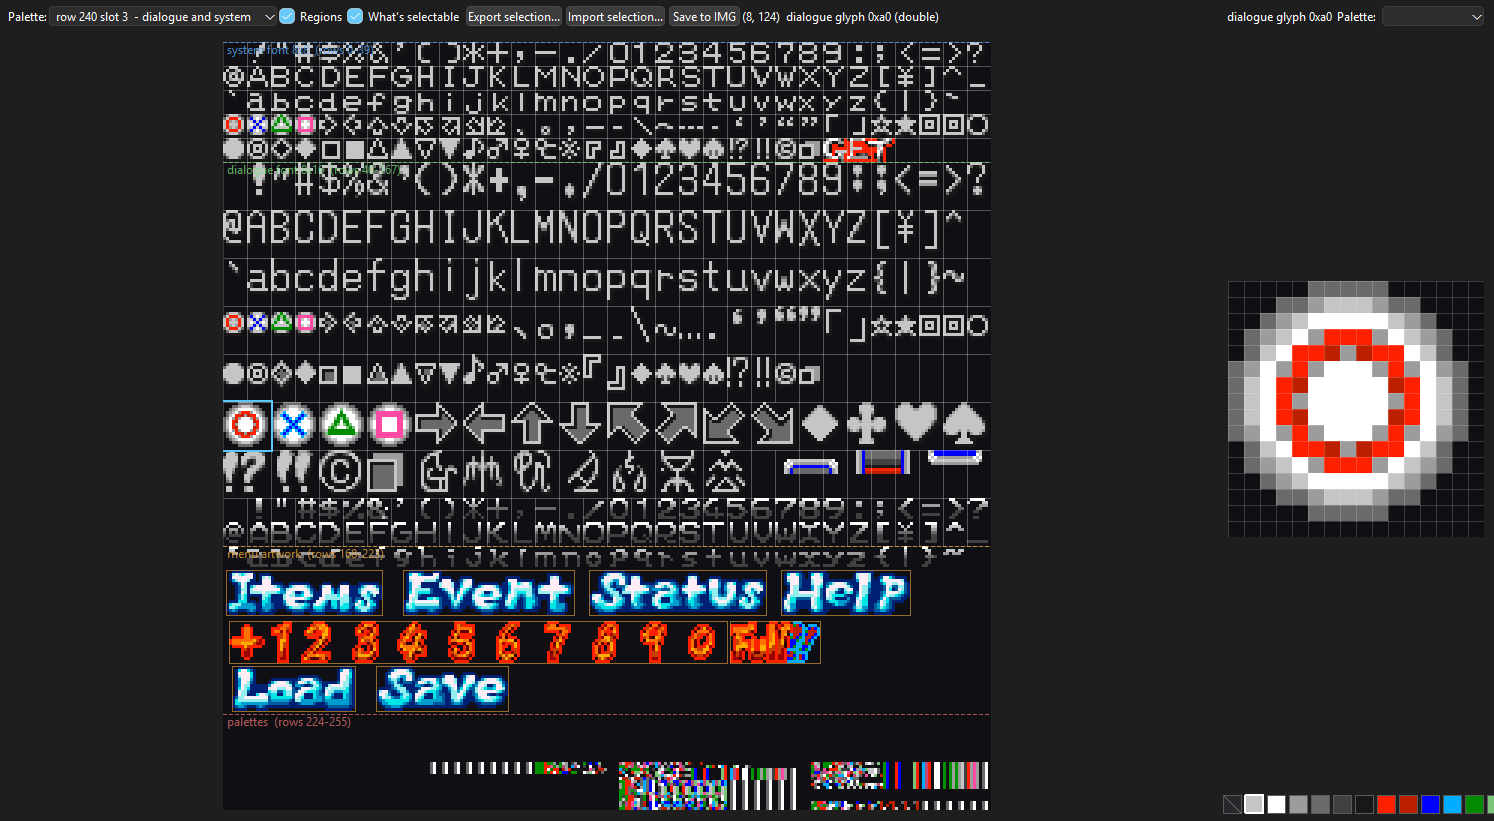
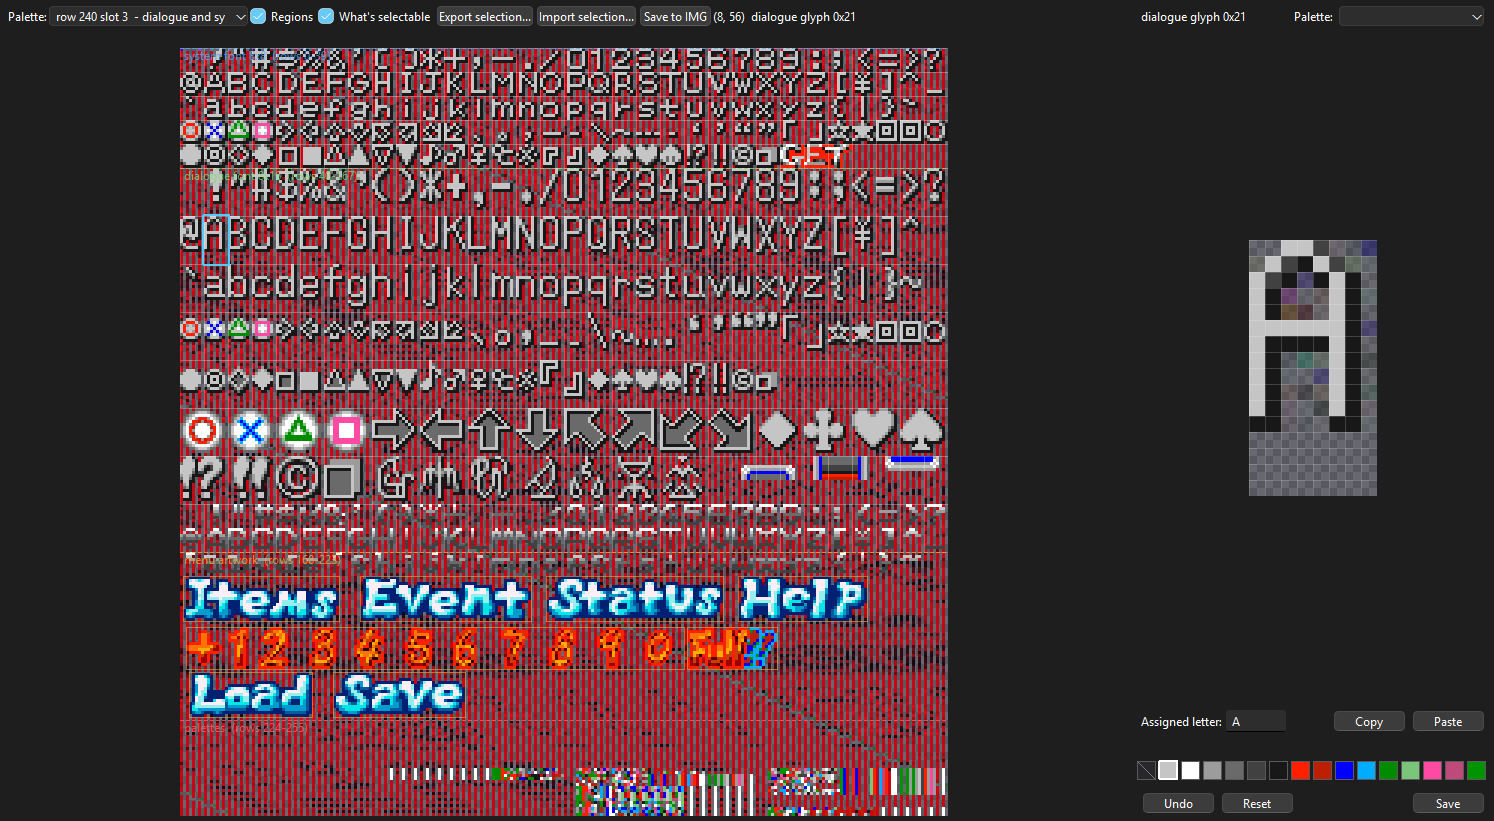
translation tab

diff --git a/gui/txtd/font_page_view.py b/gui/txtd/font_page_view.py
@@ -112,20 +112,17 @@ SPRITE_CLUTS = {
     "health digits and +": (241, 3),
 }
 
-# What index 0 is drawn as. The page's "draw nothing" has to look like
-# nothing rather than like a colour, or an edited glyph cannot be told
-# from one drawn in black - so it is a checker rather than a fill. Dark,
-# because the game draws this text over dark scenery and a pale backdrop
-# loses the highlights.
-BACKDROP = (16, 16, 20, 255)
-BACKDROP_ALT = (26, 26, 32, 255)
-CHECKER = 4                    # squares, in page texels
-
-
-def _backdrop(x, y):
-    """The checker colour behind a transparent texel."""
-    return (BACKDROP if ((x // CHECKER) + (y // CHECKER)) % 2 == 0
-            else BACKDROP_ALT)
+# The ground a transparent texel is seen against. Left to the canvas to
+# paint rather than written into the image: drawn into the pixels it
+# would line up with them and scale with the zoom, which makes it look
+# like part of the glyph instead of like nothing.
+#
+# Darker than the canvas default, because the font is nearly all light
+# pixels and a pale ground swallows them - but nowhere near black, or an
+# erased texel cannot be told from one drawn in the page's darkest
+# colour, which is the mistake worth avoiding here.
+CHECKER_LIGHT = QColor(104, 104, 112)
+CHECKER_DARK = QColor(88, 88, 96)
 
 # The two fonts. Every dialogue capture - the NPC box, Zippo and Tomba's,
 # the controls menu, the intro text - matches this one to within a mean
@@ -176,6 +173,8 @@ class FontPageView(QWidget):
         self.selection = None     # ("glyph", code) | ("sprite", name)
 
         self.canvas = _PageCanvas()
+        self.canvas.checker_light = CHECKER_LIGHT
+        self.canvas.checker_dark = CHECKER_DARK
         self.canvas.clicked.connect(self._clicked)
 
         self.scroll = QScrollArea()
@@ -251,6 +250,7 @@ class FontPageView(QWidget):
         self.detail.renamed.connect(self._rename_code)
         self.detail.copy_wanted.connect(self.copy_selection)
         self.detail.paste_wanted.connect(self.paste_selection)
+        self.detail.palette_chosen.connect(self._palette_for_selection)
 
         left = QWidget()
         left_layout = QVBoxLayout(left)
@@ -328,6 +328,21 @@ class FontPageView(QWidget):
             f"Reset {describe(*self.selection)} - {touched} texel(s) put back"
             if touched else f"{describe(*self.selection)} was unchanged")
 
+    def _palette_for_selection(self, key):
+        """Draw this part with the palette just picked.
+
+        For a sprite it is remembered, so the page shows it that way
+        too - the menu words are one artwork in four colours and the
+        page cannot know which one is meant without being told."""
+        if not self.selection:
+            return
+        kind, what = self.selection
+        if kind == "sprite":
+            self.states[what] = tuple(key)
+            self._redraw()
+            self.info.setText(f"{what} drawn with palette "
+                              f"{key[0]}/{key[1]}")
+
     def copy_selection(self):
         """Keep the selected glyph's texels, to paste elsewhere."""
         box, _palette = self._selected_box()
@@ -395,12 +410,31 @@ class FontPageView(QWidget):
                                        describe(kind, what),
                                        *self._meaning(kind, what))
 
+    def _palette_key(self, kind, what):
+        """Which palette this part is currently drawn with."""
+        if kind == "sprite":
+            return self.states.get(what) or SPRITE_CLUTS.get(what) or self._font_key()
+        return self._font_key()
+
     def _meaning(self, kind, what):
-        """(code, character) for a glyph selection, or (None, "")."""
+        """(code, character, note) for a glyph selection.
+
+        The note is for a cell whose blank letter would otherwise read
+        as "free". The button icons are the case that matters: they draw
+        something the game very much still needs, and nothing about an
+        empty letter field says so."""
         if kind not in ("glyph", "system") or what is None:
-            return None, ""
+            return None, "", ""
         letters = self.table.letters() if self.table else {}
-        return what, letters.get(what, "")
+        char = letters.get(what, "")
+        note = ""
+        if kind == "glyph" and not char:
+            icon = ICON_CELLS.get(what) or ICON_CELLS.get(what - 1)
+            if icon:
+                note = (f"Draws the button icon that {icon} prints. No "
+                        "text reaches this cell as a letter, so it has no "
+                        "assigned letter - but the artwork is still used.")
+        return what, char, note
 
     def _detail_edited(self):
         """A texel was painted on the right - redraw the page."""
@@ -476,6 +510,7 @@ class FontPageView(QWidget):
         self.canvas.update()
         box, palette = self._selected_box()
         if box:
+            self.detail.set_palettes(self.cluts, self._palette_key(kind, what))
             self.detail.show_selection(self.page, box, palette,
                                        describe(kind, what),
                                        *self._meaning(kind, what))
@@ -657,6 +692,23 @@ def _nearest(colour, palette):
     return at
 
 
+# The US page draws the four button icons in cells 0xA0-0xA7, two cells
+# to an icon because they are 16 wide against the grid's 8. No US string
+# reaches them as letters: text asks for them through a control, and the
+# byte a control encodes to is not a cell number - {$CIRCLE} is 0xCD.
+#
+# So these cells have no assigned letter and never will, which looks
+# exactly like a free cell unless something says otherwise. They are the
+# last cells a translation should claim, since the artwork is still
+# needed; hence the note.
+ICON_CELLS = {
+    0xA0: "{$CIRCLE} (0xCD)",
+    0xA2: "{$CROSS} (0xCE)",
+    0xA4: "{$TRIANGLE} (0xCF)",
+    0xA6: "{$SQUARE} (0xD0)",
+}
+
+
 def glyph_cells(code):
     """How many 8-pixel cells this code is drawn across - see
     DOUBLE_FIRST."""
@@ -705,6 +757,7 @@ def _render(page, cluts, font_clut=FONT_CLUT, states=None):
     font_pal, by_key = _palette_map(cluts, font_clut, states)
     width, height = fontpage.PAGE_W, fontpage.PAGE_H
     image = QImage(width, height, QImage.Format.Format_RGBA8888)
+    image.fill(0)          # transparent; the canvas paints the ground
 
     # Which palette covers each artwork box.
     boxes = []
@@ -727,8 +780,6 @@ def _render(page, cluts, font_clut=FONT_CLUT, states=None):
                 image.setPixelColor(x, y, QColor(value, value, value, 255))
             elif entry[3]:
                 image.setPixelColor(x, y, QColor(*entry))
-            else:
-                image.setPixelColor(x, y, QColor(*_backdrop(x, y)))
     return image
 
 
@@ -803,6 +854,7 @@ class _Detail(QWidget):
     undo_wanted = pyqtSignal()
     copy_wanted = pyqtSignal()
     paste_wanted = pyqtSignal()
+    palette_chosen = pyqtSignal(object)    # (row, slot) picked for this part
     renamed = pyqtSignal(object, str)      # code, the character it draws
 
     def __init__(self, parent=None):
@@ -811,9 +863,12 @@ class _Detail(QWidget):
         self.box = None                    # (x, y, w, h) in page texels
         self.palette = None
         self.code = None                   # the glyph code, when it is one
+        self.cluts = []
         self.index = 1                     # what the brush paints
 
         self.canvas = _DetailCanvas()
+        self.canvas.checker_light = CHECKER_LIGHT
+        self.canvas.checker_dark = CHECKER_DARK
         self.canvas.painted.connect(self._paint_at)
         self.canvas.stroke_ended.connect(self.stroke_ended)
 
@@ -826,8 +881,9 @@ class _Detail(QWidget):
         self.clut_box = QComboBox()
         self.clut_box.setToolTip(
             "Which palette to read the selection through. The menu words "
-            "are one artwork in four colours - this is how to see which "
-            "one you are editing.")
+            "are one artwork in four colours - this is how to see, and "
+            "set, which one you are editing.")
+        self.clut_box.currentIndexChanged.connect(self._palette_changed)
         self.swatches = _Swatches()
         self.swatches.picked.connect(self._set_index)
 
@@ -844,6 +900,10 @@ class _Detail(QWidget):
             "the disc spends on a symbol it never prints. Empty releases "
             "the code.")
         self.char_edit.editingFinished.connect(self._rename)
+
+        self.note = QLabel("")
+        self.note.setWordWrap(True)
+        self.note.setStyleSheet("color: #c8a04a;")
 
         self.copy_button = QPushButton("Copy")
         self.copy_button.setToolTip(
@@ -907,13 +967,42 @@ class _Detail(QWidget):
         layout.addLayout(head)
         layout.addWidget(self.scroll, 1)
         layout.addLayout(name_row)
+        layout.addWidget(self.note)
         layout.addWidget(self.swatches)
         layout.addLayout(buttons)
 
-    def show_selection(self, page, box, palette, title, code=None, char=""):
+    def set_palettes(self, cluts, current=None):
+        """Fill the palette chooser. Without this it sat empty, which is
+        why it never did anything."""
+        self.cluts = list(cluts or ())
+        self.clut_box.blockSignals(True)
+        self.clut_box.clear()
+        at = 0
+        for i, (row, slot, _pal) in enumerate(self.cluts):
+            if current is not None and (row, slot) == tuple(current):
+                at = i
+            self.clut_box.addItem(f"row {row} slot {slot}", (row, slot))
+        self.clut_box.setCurrentIndex(at)
+        self.clut_box.blockSignals(False)
+
+    def _palette_changed(self, index):
+        key = self.clut_box.itemData(index)
+        if key is None:
+            return
+        for row, slot, pal in self.cluts:
+            if (row, slot) == tuple(key):
+                self.palette = pal
+                self.swatches.set_palette(pal)
+                self._redraw()
+                break
+        self.palette_chosen.emit(tuple(key))
+
+    def show_selection(self, page, box, palette, title, code=None, char="",
+                       note=""):
         self.page, self.box, self.palette = page, box, palette
         self.code = code
         self.title.setText(title)
+        self.note.setText(note)
         self.swatches.set_palette(palette)
         self.char_edit.blockSignals(True)
         self.char_edit.setText(char)
@@ -950,14 +1039,13 @@ class _Detail(QWidget):
             return
         x, y, width, height = self.box
         image = QImage(width, height, QImage.Format.Format_RGBA8888)
+        image.fill(0)      # transparent; the canvas paints the ground
         for row in range(height):
             for col in range(width):
                 entry = (self.palette[self.page[y + row][x + col]]
                          if self.palette else None)
                 if entry and entry[3]:
                     image.setPixelColor(col, row, QColor(*entry))
-                else:
-                    image.setPixelColor(col, row, QColor(*_backdrop(col, row)))
         self.canvas.set_image(image)
         self.canvas.set_zoom(fit_zoom((width, height),
                                       self.scroll.viewport().size(), 24))

diff --git a/gui/pixel_canvas.py b/gui/pixel_canvas.py
@@ -63,6 +63,12 @@ class PixelCanvas(QWidget):
         super().__init__(parent)
         self.image = None
         self.zoom = zoom
+        # Per-view, because what reads as "nothing" depends on what is
+        # drawn over it: pale art wants a darker ground than the light
+        # default, and the font page is nearly all light pixels.
+        self.checker_light = CHECKER_LIGHT
+        self.checker_dark = CHECKER_DARK
+        self.checker_size = CHECKER_SIZE
         self._drag_from = None
         self._scroll_from = None
         self._dragged = False
@@ -137,15 +143,22 @@ class PixelCanvas(QWidget):
         widget pixels - skip anything outside it."""
 
     def _paint_checker(self, painter, area):
-        painter.fillRect(area, CHECKER_LIGHT)
+        """The nothing behind a transparent pixel.
+
+        Drawn in widget pixels rather than image ones, so its squares
+        neither line up with the texels nor grow when the view is zoomed
+        in - which is what keeps it reading as "there is nothing here"
+        instead of as part of the picture."""
+        light, dark, size = self.checker_light, self.checker_dark, self.checker_size
+        painter.fillRect(area, light)
         painter.setPen(Qt.PenStyle.NoPen)
-        painter.setBrush(CHECKER_DARK)
-        first_x = (area.left() // CHECKER_SIZE) * CHECKER_SIZE
-        first_y = (area.top() // CHECKER_SIZE) * CHECKER_SIZE
-        for y in range(first_y, area.bottom() + 1, CHECKER_SIZE):
-            for x in range(first_x, area.right() + 1, CHECKER_SIZE):
-                if ((x // CHECKER_SIZE) + (y // CHECKER_SIZE)) % 2:
-                    painter.drawRect(x, y, CHECKER_SIZE, CHECKER_SIZE)
+        painter.setBrush(dark)
+        first_x = (area.left() // size) * size
+        first_y = (area.top() // size) * size
+        for y in range(first_y, area.bottom() + 1, size):
+            for x in range(first_x, area.right() + 1, size):
+                if ((x // size) + (y // size)) % 2:
+                    painter.drawRect(x, y, size, size)
         painter.setBrush(Qt.BrushStyle.NoBrush)
 
     # --- mouse ---
